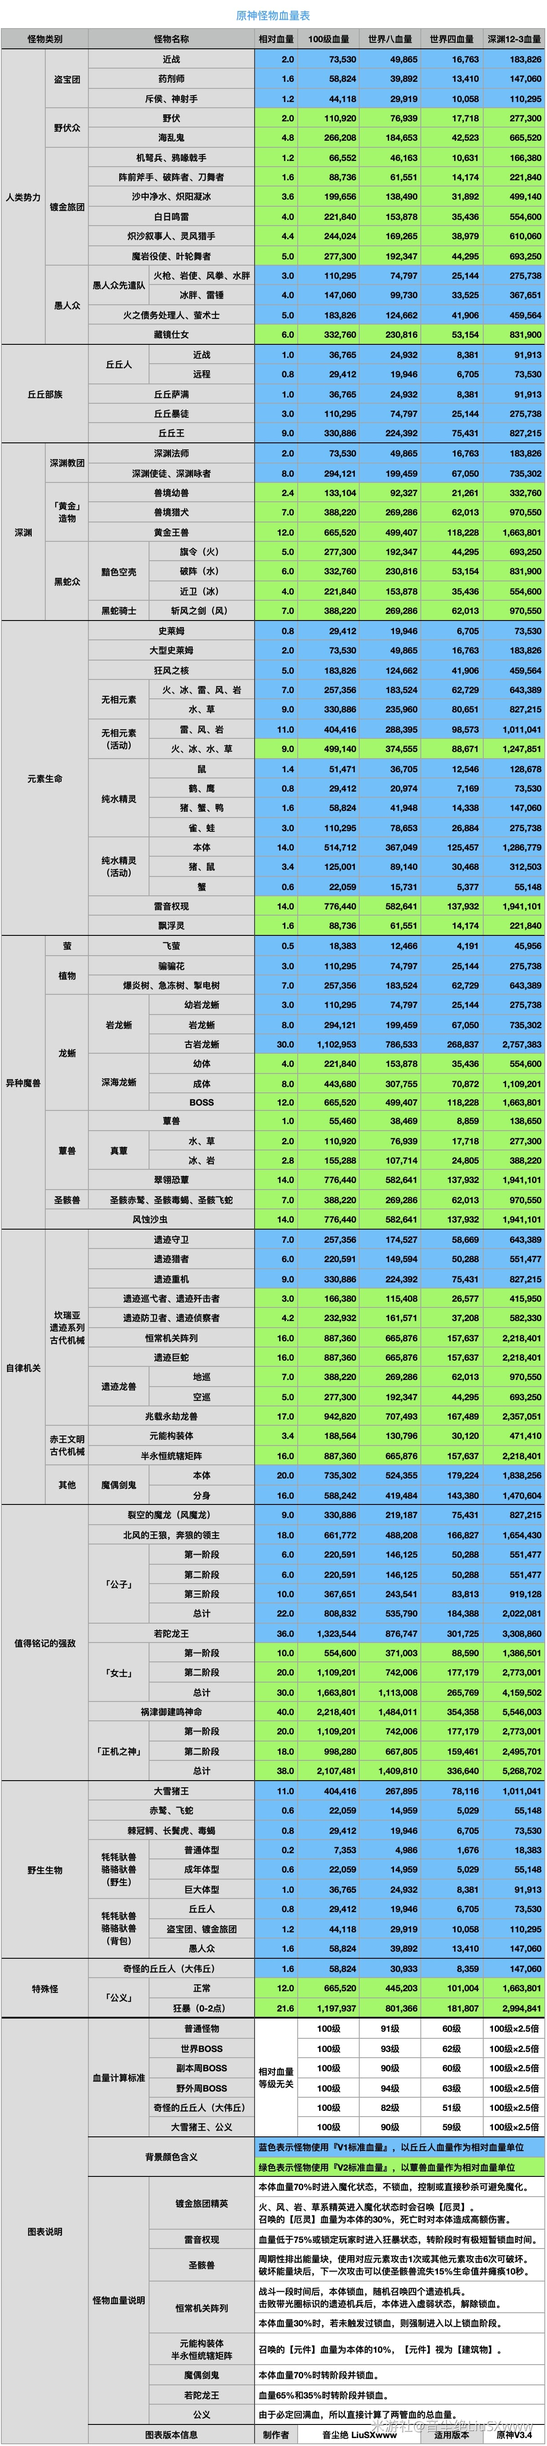
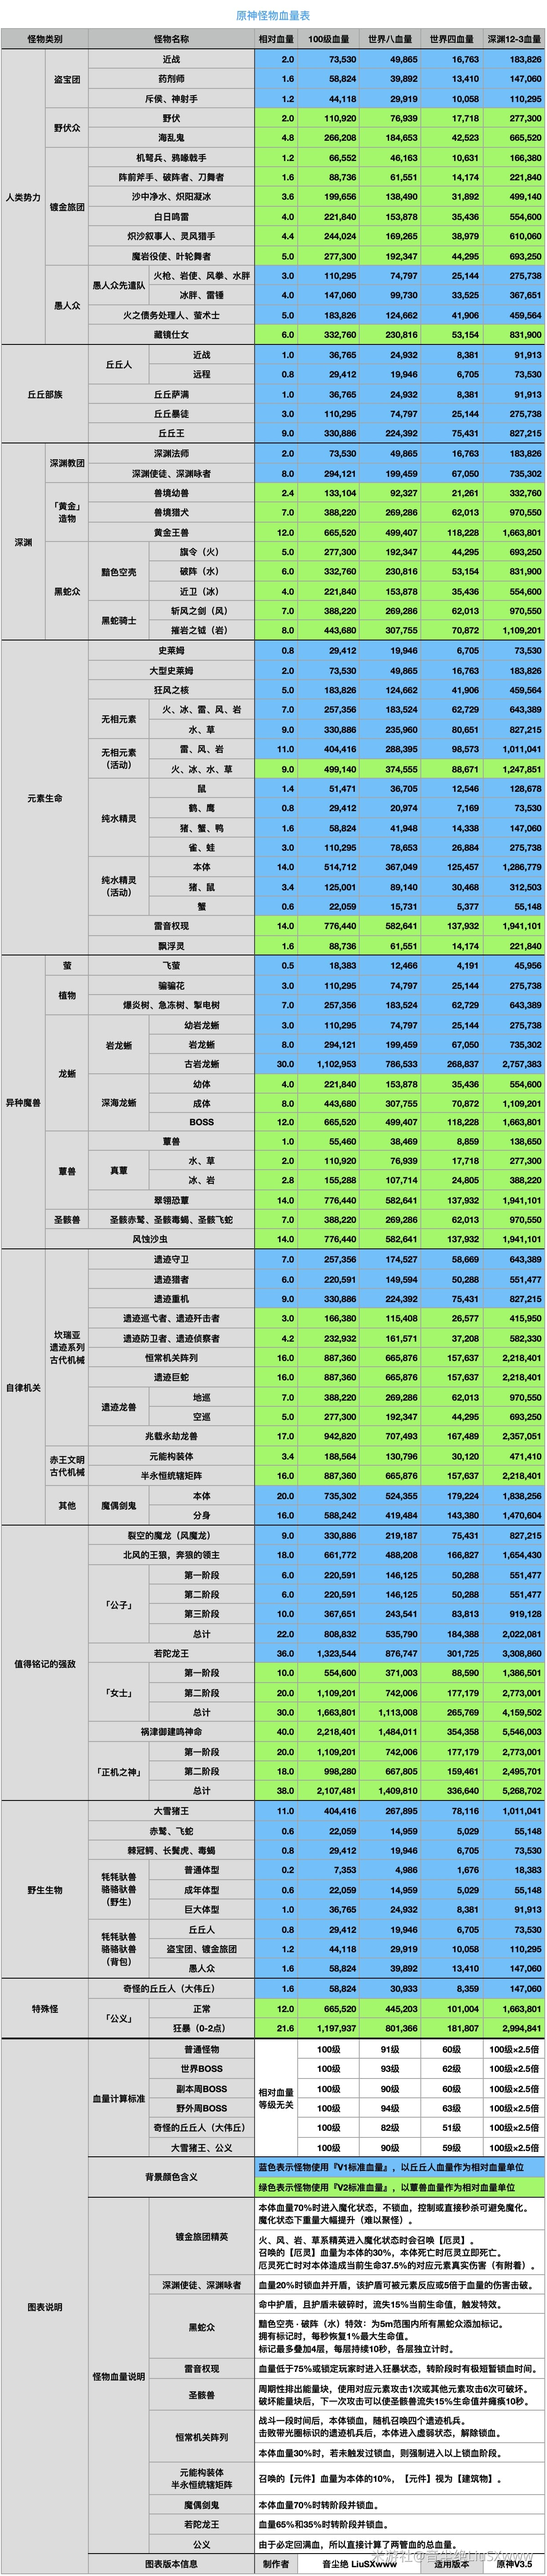
🍱 更新`血量表`等资源，修复偶发性的`深渊`的BUG

diff --git a/GenshinUID/utils/error_reply.py b/GenshinUID/utils/error_reply.py
@@ -35,9 +35,11 @@ def get_error(retcode: Union[int, str]) -> str:
     elif retcode == 10104:
         return CK_HINT
     elif retcode == -512009:
-        return '已经获取过该内容~!'
+        return '[留影叙佳期]已经获取过该内容~!'
     elif retcode == -201:
         return '你的账号可能已被封禁, 请联系米游社客服...'
+    elif retcode == -501101:
+        return '当前角色冒险等阶未达到10级, 暂时无法参加此活动...'
     elif retcode == 400:
         return '[MINIGG]暂未找到此内容...'
     else:

diff --git a/GenshinUID/genshinuid_abyss/draw_abyss_card.py b/GenshinUID/genshinuid_abyss/draw_abyss_card.py
@@ -206,6 +206,11 @@ async def draw_abyss_img(
         img_draw.text(title_xy, _name, first_color, gs_font_20, 'lm')
         img_draw.text(val_xy, _val, first_color, gs_font_26, 'lm')
 
+    # 过滤数据
+    raw_abyss_data['floors'] = [
+        i for i in raw_abyss_data['floors'] if i['index'] >= 9
+    ]
+
     # 绘制缩略信息
     for num in range(4):
         omit_bg = Image.open(TEXT_PATH / 'abyss_omit.png')
